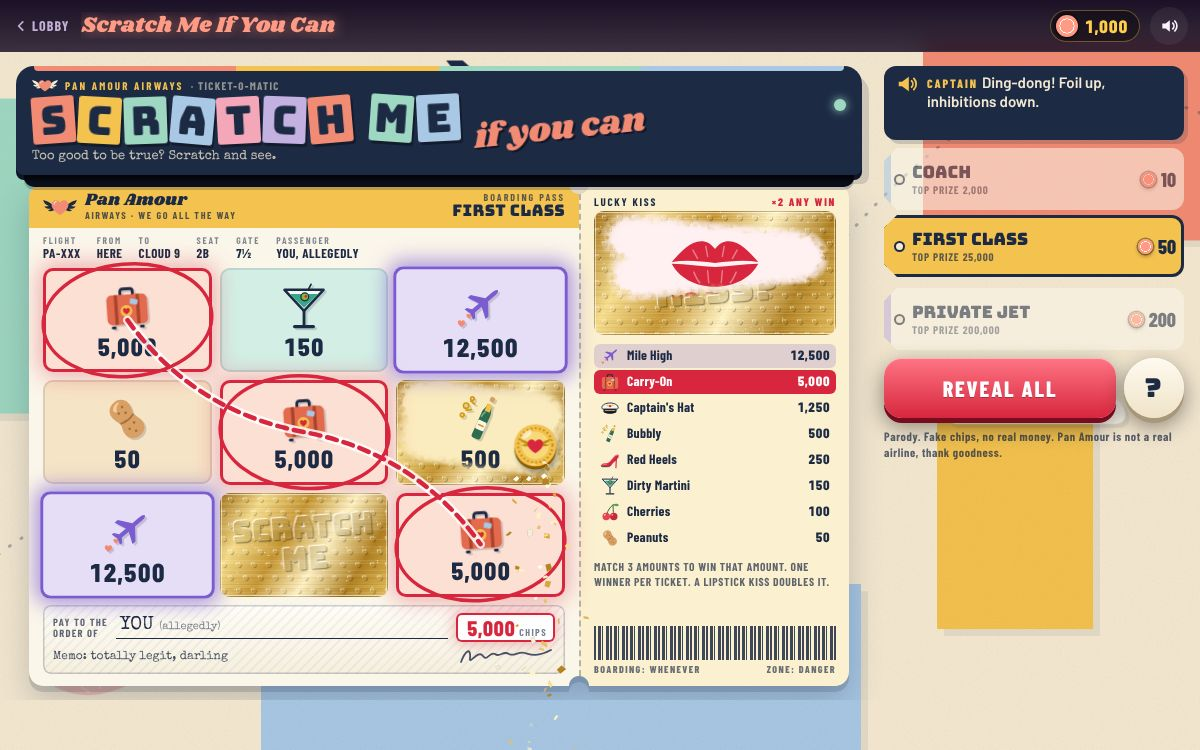
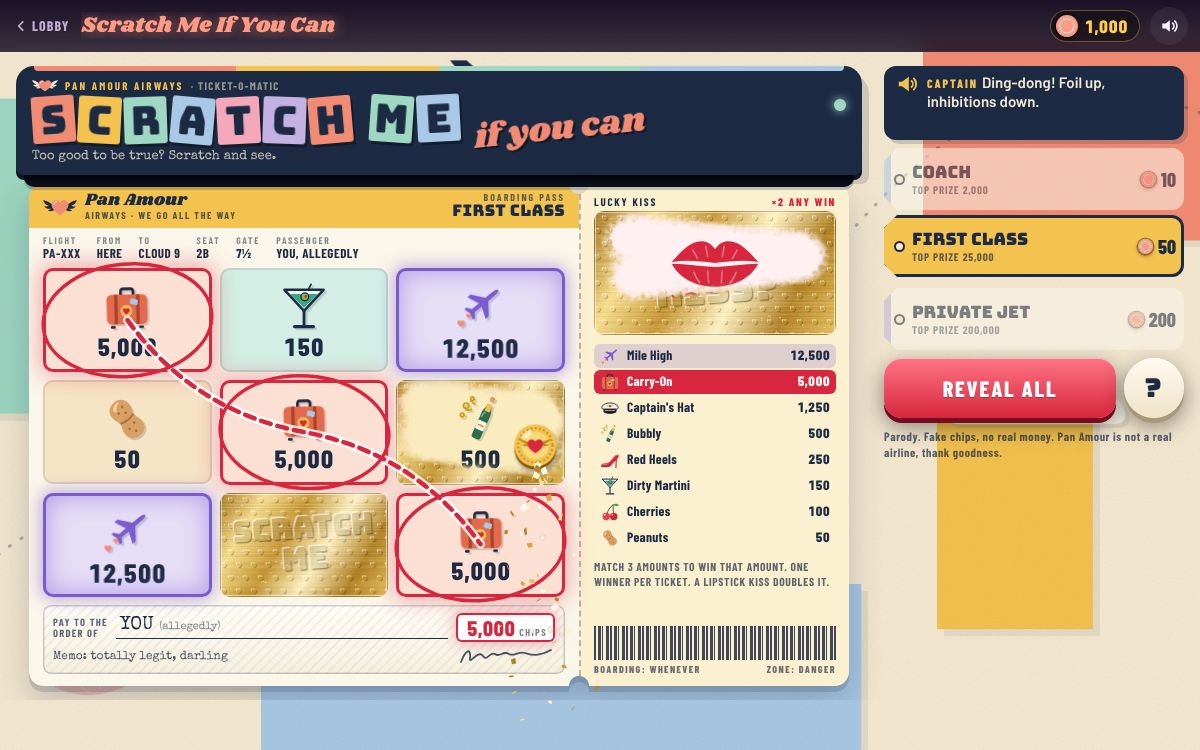
Finish Scratch Me If You Can and The Flirt Locker, add the lobby thumbnail
Scratch Me If You Can: Pan Amour Airways boarding-pass scratch cards
with canvas foil, three ticket classes and a Lucky Kiss doubler,
RTP 95.2-95.8%.
The Flirt Locker: mines in a bank of 25 gym lockers, crushes versus
mood killers, 97% RTP by construction with a 99% cap per choice; its
outcome-forcing hash now only works under automation.
The lobby keeps its neon sign inside its column on wide screens and
gets its gallery thumbnail.

Claude-Session: https://claude.ai/code/session_014qAxLGadNofD3Bd2JFD7UC

diff --git a/blue-movie-casino/scratch-me-if-you-can/index.html b/blue-movie-casino/scratch-me-if-you-can/index.html
@@ -50,9 +50,12 @@ body { background: var(--cream); color: var(--navy) }
 @keyframes drift4 { to { translate: 4vw -6vh } }
 .route { position: absolute; inset: 0; width: 100%; height: 100%; color: var(--navy) }
 .route path { fill: none; stroke: var(--navy); stroke-width: 3; stroke-dasharray: 1 13; stroke-linecap: round; opacity: .32 }
-.bg-jet { position: absolute; left: 0; top: 7vh; width: 210px; height: 66px; color: var(--navy); animation: cruise 26s linear infinite; animation-delay: -9s }
+.route-plane { position: absolute; left: -17px; top: -17px; width: 34px; height: 34px; color: var(--navy); opacity: 0; will-change: transform }
+.bg-jet { position: absolute; display: block; left: 0; top: 7vh; width: 210px; height: 66px; color: var(--navy); animation: cruise 26s linear infinite; animation-delay: -9s }
 @keyframes cruise { from { translate: -260px 3vh } to { translate: calc(100vw + 60px) -2vh } }
-.cloud { position: absolute; color: #fffaf0; filter: drop-shadow(4px 4px 0 rgba(29, 42, 68, .08)) }
+.cloud { position: absolute; display: block; color: #fffaf0; filter: drop-shadow(4px 4px 0 rgba(29, 42, 68, .08)) }
+/* the drifting/cruising art is wrapped in HTML boxes: animating the <svg> itself ran on the main thread */
+.cloud svg, .bg-jet svg { display: block; width: 100%; height: 100% }
 .cl1 { left: 4vw; top: 7vh; width: 150px; height: 62px; animation: drift1 40s ease-in-out infinite alternate }
 .cl2 { right: 5vw; top: 46vh; width: 200px; height: 84px; animation: drift2 46s ease-in-out infinite alternate }
 .bg-lips { position: absolute; left: 3vw; bottom: 7vh; width: 130px; height: 80px; color: var(--lip); opacity: .22; rotate: -16deg }
@@ -188,14 +191,17 @@ main {
 @keyframes glint { 0%, 62% { translate: 0 0 } 100% { translate: 470% 0 } }
 @keyframes glint-once { 0% { translate: 0 0; opacity: 1 } 99% { opacity: 1 } 100% { translate: 470% 0; opacity: 0 } }
 .cell.rev .prize svg { animation: c-pop .45s var(--ease-back) }
-.cell.pair { animation: pair-glow .9s ease-in-out infinite; z-index: 1 }
-.cell.pair.big { animation-duration: .62s }
-@keyframes pair-glow {
-  0%, 100% { box-shadow: inset 0 0 0 3px var(--tc), 0 0 0 0 transparent; scale: 1 }
-  50% { box-shadow: inset 0 0 0 3px var(--tc), 0 0 20px 5px color-mix(in srgb, var(--tc) 65%, transparent); scale: 1.035 }
-}
+/* Looping glows only animate scale and opacity (compositor work), so a finished ticket can sit on
+   screen without repainting every frame. */
+.cell.pair { z-index: 1; box-shadow: inset 0 0 0 3px var(--tc), 0 0 16px 3px color-mix(in srgb, var(--tc) 45%, transparent) }
+.cell.pair .prize { animation: pair-pulse .9s ease-in-out infinite }
+.cell.pair::before { content: ""; position: absolute; inset: 0; z-index: 1; border-radius: inherit; pointer-events: none; box-shadow: inset 0 0 22px 6px color-mix(in srgb, var(--tc) 55%, transparent); animation: pair-inner .9s ease-in-out infinite }
+.cell.pair.big .prize, .cell.pair.big::before { animation-duration: .62s }
+@keyframes pair-pulse { 50% { scale: 1.07 } }
+@keyframes pair-inner { 0%, 100% { opacity: .15 } 50% { opacity: 1 } }
 .cell.won { z-index: 1; animation: won-bounce .55s var(--ease-back); box-shadow: inset 0 0 0 3px var(--lip), 0 0 22px 4px rgba(215, 38, 61, .35) }
-.cell.won .prize svg { animation: won-wiggle 1.3s ease-in-out infinite }
+.prize .pi { display: block; line-height: 0 }
+.cell.won .prize .pi { animation: won-wiggle 1.3s ease-in-out infinite }
 @keyframes won-bounce { 0% { scale: 1 } 35% { scale: 1.16 } 70% { scale: .96 } 100% { scale: 1 } }
 @keyframes won-wiggle { 0%, 100% { rotate: 0deg } 25% { rotate: -9deg } 75% { rotate: 9deg } }
 .cell.zap::before { content: ""; position: absolute; inset: 0; z-index: 4; border-radius: inherit; background: #fff; pointer-events: none; animation: zap .45s ease-out forwards }
@@ -398,7 +404,9 @@ main {
 .main-btn .mp { display: inline-flex; align-items: center; gap: 5px; padding: 4px 9px 4px 5px; border-radius: 999px; background: rgba(0, 0, 0, .22); font-size: 18px }
 .main-btn .mp .cchip-icon { width: 18px; height: 18px; --chip: var(--p-mustard) }
 .main-btn.ready:not(:disabled):not(.c-jelly):not(.c-wobble) { animation: ready 1.5s ease-in-out infinite }
-@keyframes ready { 0%, 100% { scale: 1 } 50% { scale: 1.025; filter: brightness(1.1) } }
+@keyframes ready { 0%, 100% { scale: 1 } 50% { scale: 1.035 } }
+/* scale-only pulse and no filter/scale transitions on this button: keeps the idle pulse on the compositor */
+.main-btn { transition: translate .07s, box-shadow .07s }
 .main-btn:disabled { cursor: progress; filter: saturate(.8) brightness(.95); background-image: repeating-linear-gradient(-45deg, rgba(255, 255, 255, .16) 0 12px, transparent 12px 24px), linear-gradient(180deg, var(--b1), var(--b2)); background-size: 34px 34px, auto; animation: busy .6s linear infinite }
 @keyframes busy { to { background-position: 34px 0, 0 0 } }
 .help-btn { --b1: #fffaf0; --b2: #efe3c8; --b3: #a8987a; --bt: var(--navy); width: 60px; min-height: 60px; font: 400 26px/1 var(--f-marquee); text-shadow: none }
@@ -480,8 +488,9 @@ main {
 .cdialog-body td.odds { color: var(--ink-soft); font-weight: 500 }
 
 @media (prefers-reduced-motion: reduce) {
-  .blk, .cloud, .bg-jet, .tiles span, .cell::after, .kiss-box::after, .main-btn.ready, .cell.pair, .kiss-box.kissed, .cell.won .prize svg { animation: none !important }
+  .blk, .cloud, .bg-jet, .tiles span, .cell::after, .kiss-box::after, .main-btn.ready, .cell.pair .prize, .cell.pair::before, .kiss-box.kissed, .cell.won .prize .pi { animation: none !important }
   .bg-jet { display: none }
+  .cell.nudge, .cell.tense, .ch-amt.tense, .ticket.punch, .cell.pair.thump, .shock { animation: none !important }
 }
 </style>
 <body>
@@ -609,13 +618,13 @@ main {
 
 <div class="bg" aria-hidden="true">
   <i class="blk b1"></i><i class="blk b2"></i><i class="blk b3"></i><i class="blk b4"></i><i class="blk b5"></i><i class="blk b6"></i>
-  <svg class="cloud cl1"><use href="#i-cloud"/></svg>
-  <svg class="cloud cl2"><use href="#i-cloud"/></svg>
+  <i class="cloud cl1"><svg><use href="#i-cloud"/></svg></i>
+  <i class="cloud cl2"><svg><use href="#i-cloud"/></svg></i>
   <svg class="route" viewBox="0 0 1200 800" preserveAspectRatio="xMidYMid slice">
     <path id="fp" d="M-60 640C180 330 470 790 740 400S1120 110 1280 170"/>
-    <g><use href="#i-plane" x="-17" y="-17" width="34" height="34"/><animateMotion dur="19s" repeatCount="indefinite" rotate="auto"><mpath href="#fp" xlink:href="#fp"/></animateMotion></g>
   </svg>
-  <svg class="bg-jet"><use href="#i-airliner"/></svg>
+  <svg class="route-plane"><use href="#i-plane"/></svg>
+  <i class="bg-jet"><svg><use href="#i-airliner"/></svg></i>
   <svg class="bg-lips"><use href="#i-lips"/></svg>
 </div>
 
@@ -1218,6 +1227,49 @@ main {
     return { ...t, rev: t.rev.map(Boolean), kiss: !!t.kiss, kissRev: !!t.kissRev, cov, saved: true, claimed: false };
   }
 
+  /* ---------- the little plane on the dotted route ----------
+     A composited Web Animation sampled from the path (re-sampled on resize), instead of SMIL
+     animateMotion, which forced a layout on every frame while the page sat idle. */
+  (() => {
+    const path = document.getElementById('fp');
+    const plane = document.querySelector('.route-plane');
+    if (!path || !plane || !plane.animate || !path.getScreenCTM) return;
+    let anim = null;
+    let queued = 0;
+    function fly() {
+      queued = 0;
+      const m = path.getScreenCTM();
+      if (!m || !innerWidth) return;
+      const L = path.getTotalLength();
+      const k = Math.max(innerWidth / 1200, innerHeight / 800);
+      const frames = [];
+      let prev = null;
+      for (let i = 0; i <= 60; i++) {
+        const d = (L * i) / 60;
+        const p = path.getPointAtLength(d).matrixTransform(m);
+        const q = path.getPointAtLength(Math.min(L, d + 3)).matrixTransform(m);
+        let ang = i === 60 && prev !== null ? prev : (Math.atan2(q.y - p.y, q.x - p.x) * 180) / Math.PI;
+        if (prev !== null) {
+          while (ang - prev > 180) ang -= 360;
+          while (ang - prev < -180) ang += 360;
+        }
+        prev = ang;
+        frames.push({ transform: `translate(${p.x.toFixed(1)}px, ${p.y.toFixed(1)}px) rotate(${ang.toFixed(1)}deg) scale(${k.toFixed(3)})` });
+      }
+      const at = anim ? anim.currentTime : 0;
+      if (anim) anim.cancel();
+      plane.style.opacity = '1';
+      anim = plane.animate(frames, { duration: 19000, iterations: Infinity });
+      anim.currentTime = at || 0;
+    }
+    if (rm()) return; // reduced motion: no plane
+    fly();
+    addEventListener('resize', () => {
+      clearTimeout(queued);
+      queued = setTimeout(fly, 200);
+    });
+  })();
+
   /* ---------- the title tiles ---------- */
   (() => {
     const box = $('.tiles');
@@ -1281,7 +1333,7 @@ main {
       const tier = t ? t.grid[i] : -1;
       const T = TIERS[tier];
       const style = T ? ` style="--tint:${T.tint};--tc:${T.tc};--i:${i}"` : ` style="--i:${i}"`;
-      const prize = T ? `<div class="prize"><svg><use href="#${T.icon}"/></svg><b>${fmt(C.price * C.mults[tier])}</b></div>` : '<div class="prize"></div>';
+      const prize = T ? `<div class="prize"><i class="pi"><svg><use href="#${T.icon}"/></svg></i><b>${fmt(C.price * C.mults[tier])}</b></div>` : '<div class="prize"></div>';
       return `<div class="cell" data-i="${i}" role="img" aria-label="Unscratched panel"${style}>${prize}<canvas class="foil"></canvas></div>`;
     }).join('');
     let kissUnder = '';

diff --git a/blue-movie-casino/index.html b/blue-movie-casino/index.html
@@ -34,6 +34,7 @@ body {
 @media (min-width: 940px) {
   .wrap { grid-template-columns: minmax(0, 1.25fr) minmax(340px, .9fr); grid-template-areas: "sign bottle" "ticker ticker" "now now" "foot foot"; column-gap: 40px; align-items: center }
   .jump { display: none !important }
+  .sign .neon { font-size: min(96px, 6.9vw) } /* Monoton is wide: keep the sign inside its column */
 }
 .sign { display: grid; gap: 16px; justify-items: start; min-width: 0 }
 .jump { display: inline-flex; align-items: center; gap: 8px; font: 800 14px/1 var(--f-cond); letter-spacing: .12em; text-transform: uppercase; color: var(--gold); text-decoration: none; padding: 10px 14px; border-radius: 999px; background: rgba(255, 207, 74, .1); box-shadow: inset 0 0 0 1px rgba(255, 207, 74, .45) }

diff --git a/blue-movie-casino/the-flirt-locker/index.html b/blue-movie-casino/the-flirt-locker/index.html
@@ -1367,7 +1367,8 @@ body::before {
 
   const stakeVal = () => STAKES[stakeIdx];
   const liveRound = () => round && !round.over;
-  const rigged = () => (location.hash.match(/rig=(safe|boom)/) || [])[1] || null;
+  // #rig=safe|boom forces the next pick; it only works under automation (navigator.webdriver), for tests.
+  const rigged = () => (navigator.webdriver && (location.hash.match(/rig=(safe|boom)/) || [])[1]) || null;
 
   /* ---------- Crash safety ----------
      Each live round keeps a small record in localStorage (its own key, refreshed every 2 s). pagehide settles
